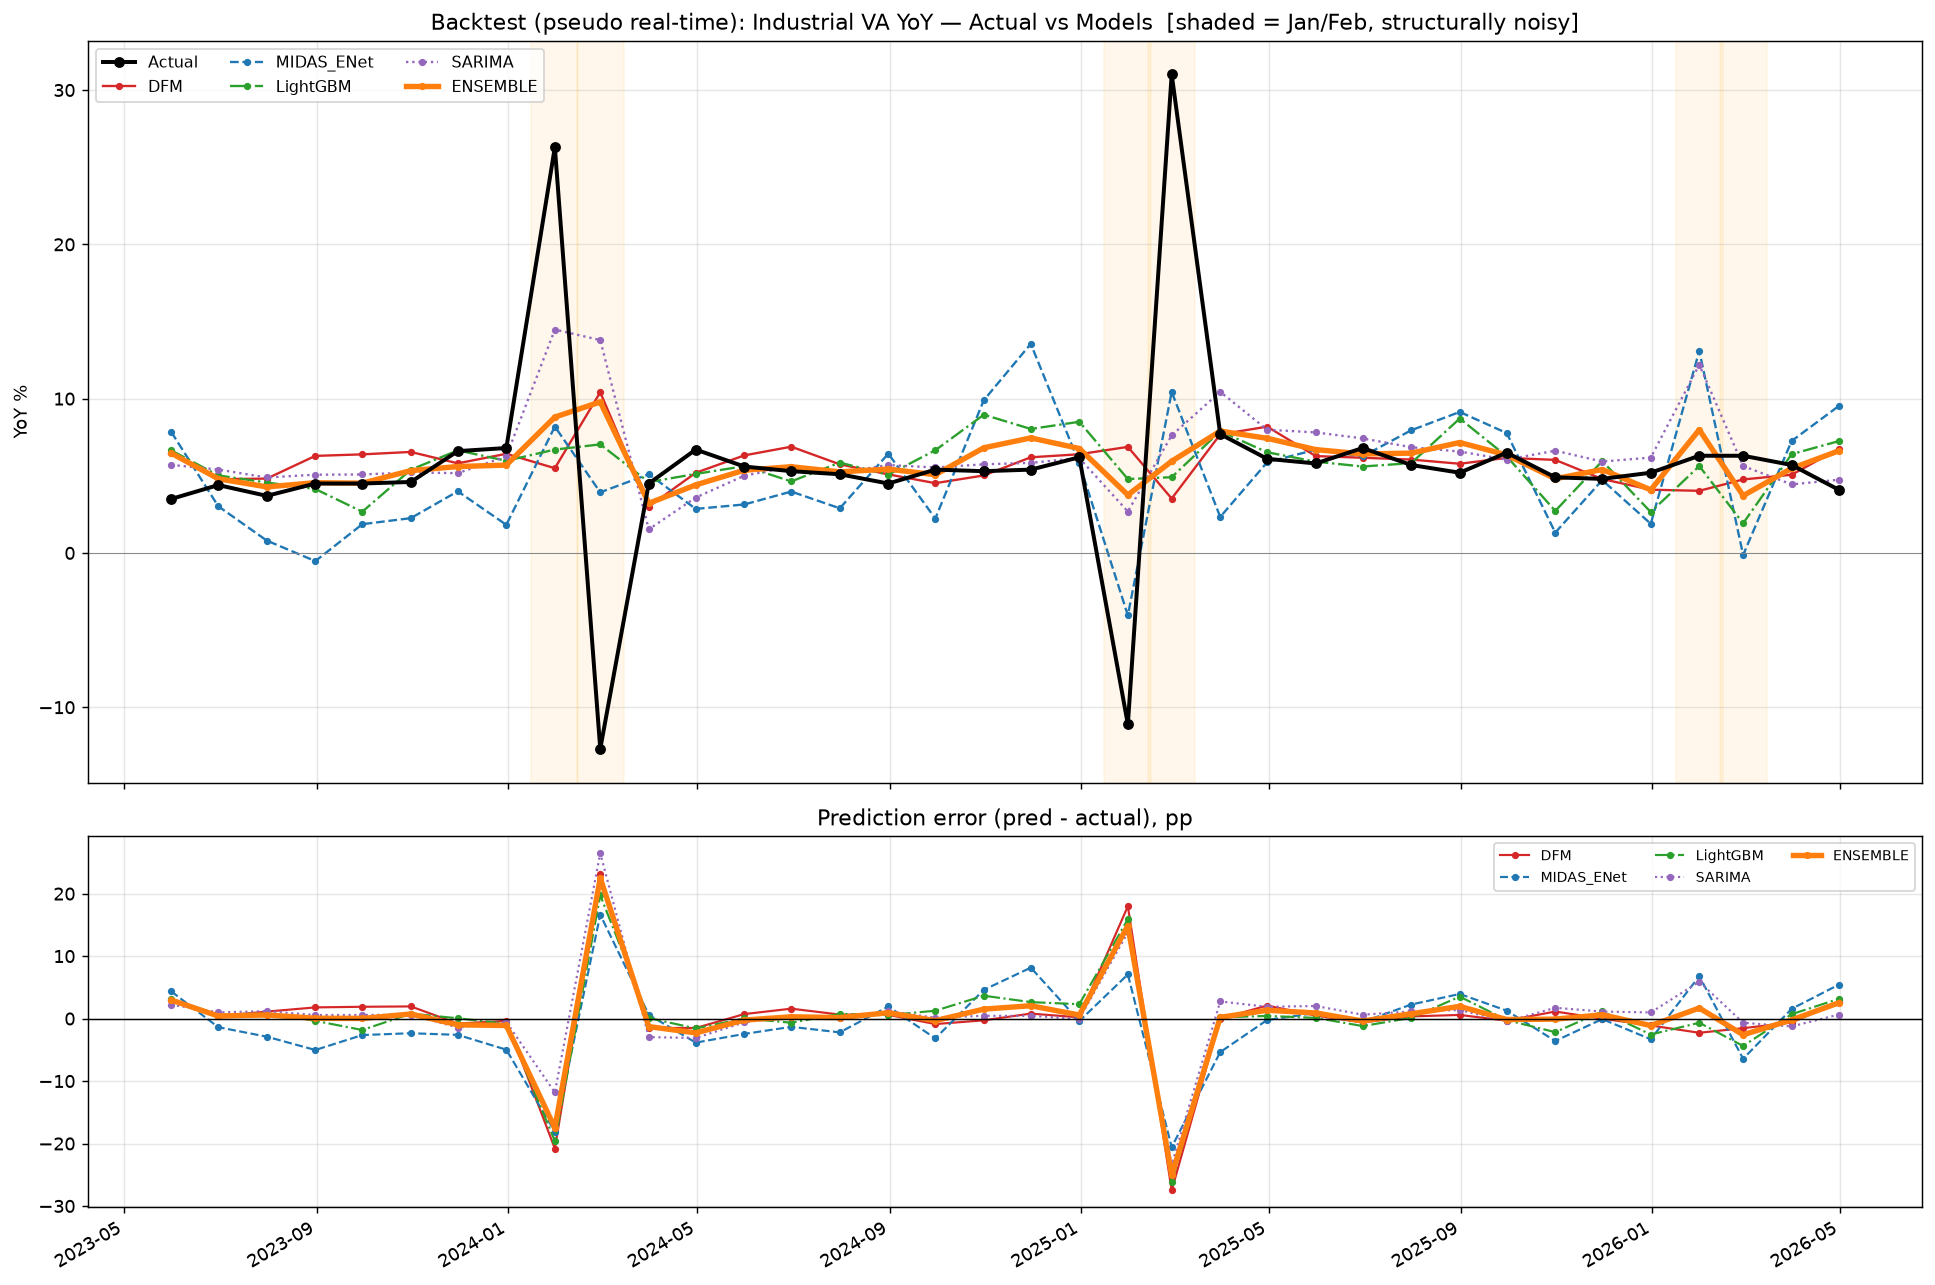
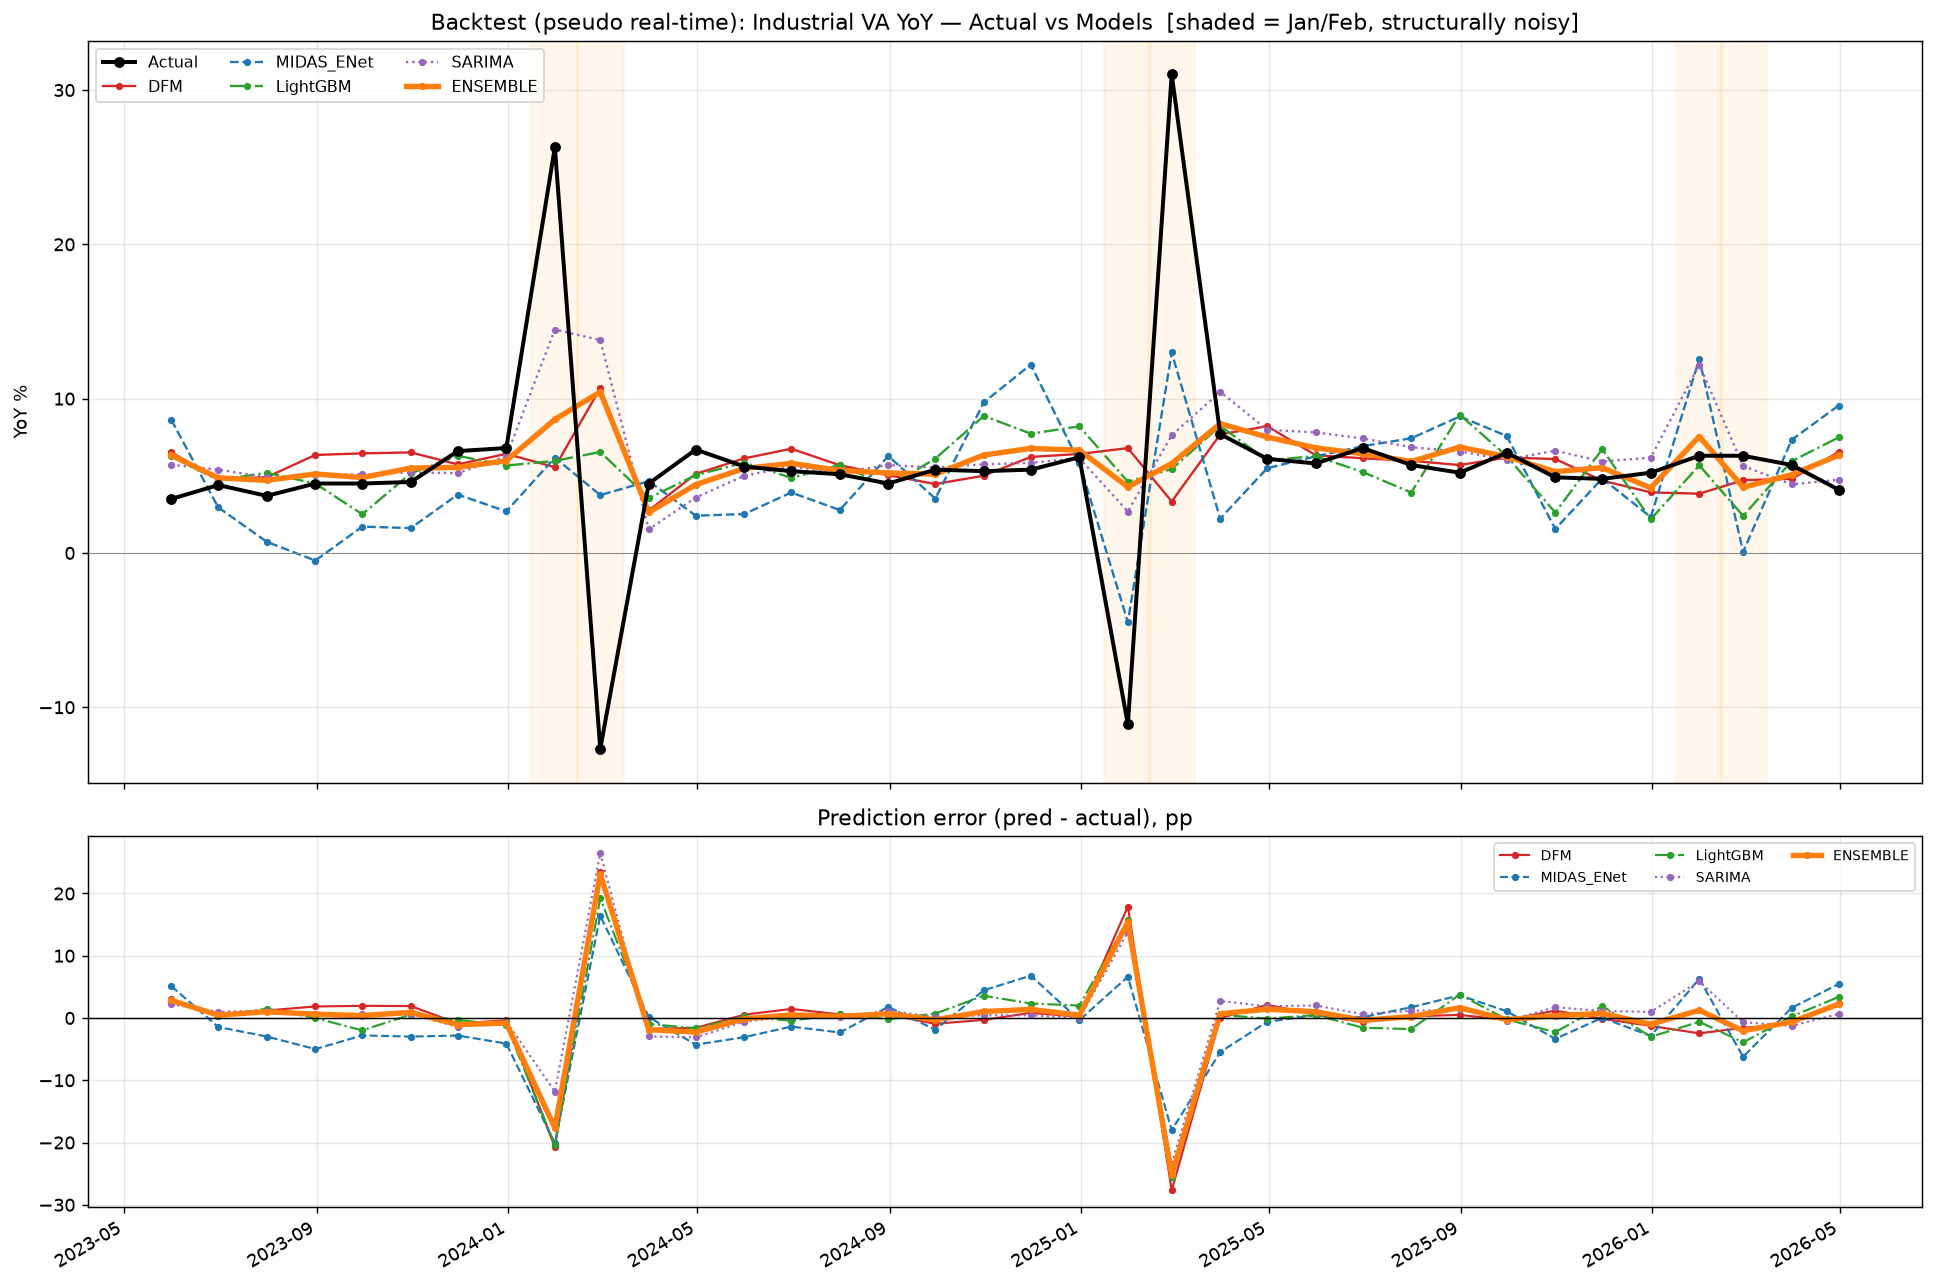
修复高频残月同比口径偏差与组合稳健性
诊断"各模型预测分歧过大(MIDAS=2.50)"根因:非代码bug,而是(1)残月高频同比口径错误:
当月仅部分观测(如旬度钢铁5月仅1个旬数据)却除以去年整月均值,导致同比失真并被
MIDAS放大;(2)逆RMSE加权对不稳定模型压制不足。

修复:
- 高频level2yoy/index2yoy改为"同口径(MTD)同比":每月用其已覆盖的最大日比去年同月
  同一日窗口,完整月等价整月同比,残月对像比较,彻底消除残月口径偏差
- 组合改逆MSE加权(power=2),更狠压制高误差/不稳定模型

效果:MIDAS的5月预测由2.50纠正为7.08(与DFM/LGB一致),各模型收敛到4.45~7.08;
组合剔除1-2月RMSE由1.185降至1.134;最新预测5月点5.76%,80%[4.35,7.17],95%[2.94,8.59]

Claude-Session: https://claude.ai/code/session_01Lyk2ycG3dbMTHNTX5YaMUQ

Changed region(s): [[0.093, 0.2802, 0.9612, 0.4358], [0.062, 0.6848, 0.9612, 0.8405], [0.5891, 0.8405, 0.6202, 0.9027]]

diff --git a/industrial_va_forecast.py b/industrial_va_forecast.py
@@ -120,6 +120,7 @@ class Config:
     midas_topk_features: int = 40    # MIDAS 入模前按|相关|预筛的特征数(降维抗过拟合)
     midas_use_isna_flags: bool = False  # 是否保留缺失指示列(默认关:它们多为噪声)
     ensemble_exclude_janfeb_in_weights: bool = True  # 组合权重按"剔除1-2月"误差计算
+    ensemble_weight_power: float = 2.0  # 权重=1/RMSE^power。2=逆MSE,更狠地压制不稳定模型
     sanity_clip_pp: float = 6.0      # 极端值护栏:最终点预测不超出近12个月实际范围±该值
 
     # ---- 模型 ----
@@ -496,6 +497,38 @@ class FrequencyAligner:
             return grouper.sum()
         raise ValueError(agg)
 
+    def _highfreq_monthly_yoy(self, vis: pd.Series) -> pd.Series:
+        """高频水平量/价格 -> 月度【同口径(MTD)同比】。
+
+        关键修正：每个月的同比都用"该月已覆盖到的最大日(cap) ÷ 去年同月【同样 day<=cap
+        窗口】的均值"。完整月 cap≈月末，等价于整月同比；最新【残月】(如旬度只到5月10日)
+        则与去年同期同一日窗口对像比较，消除"残月均值 ÷ 去年整月均值"的口径偏差与噪声。
+        """
+        s = vis.copy()
+        s.index = pd.DatetimeIndex(s.index)
+        df = pd.DataFrame({"v": s.astype(float).values}, index=s.index)
+        df["month"] = to_month_index(df.index)
+        df["dom"] = df.index.day
+        monthly_mean = df.groupby("month")["v"].mean()
+        monthly_cap = df.groupby("month")["dom"].max()
+        month_set = set(monthly_mean.index)
+        out = {}
+        for m in monthly_mean.index:
+            prior = month_end(pd.Timestamp(m) - pd.DateOffset(years=1))
+            if prior not in month_set:
+                out[m] = np.nan
+                continue
+            cap = monthly_cap[m]
+            pm = df[(df["month"] == prior) & (df["dom"] <= cap)]["v"]
+            base = pm.mean()
+            if len(pm) == 0 or not np.isfinite(base) or abs(base) < 1e-12:
+                out[m] = np.nan
+                continue
+            out[m] = (monthly_mean[m] / base - 1.0) * 100.0
+        ser = pd.Series(out).sort_index()
+        ser = ser.replace([np.inf, -np.inf], np.nan)
+        return ser
+
     def build_monthly_panel(self, as_of: pd.Timestamp) -> pd.DataFrame:
         """构造 as_of 时点的月度面板（列=指标内部名，行=月末），含目标列。"""
         cfg = self.cfg
@@ -508,15 +541,16 @@ class FrequencyAligner:
                 # 月度/目标：直接口径变换
                 ser = self.transformer.transform_monthly(vis, ind.transform)
             else:
-                # 高频：先聚合到月，再按口径做"月度同比/保持比率"
-                monthly = self._aggregate_highfreq_to_month(vis, ind.agg)
-                monthly.index = to_month_index(monthly.index)
-                monthly = monthly[~monthly.index.duplicated(keep="last")].sort_index()
+                # 高频：按口径做"月度同口径(MTD)同比 / 保持比率"
                 if ind.transform in ("level2yoy", "index2yoy"):
-                    full = pd.date_range(monthly.index.min(), monthly.index.max(), freq="ME")
-                    ser = safe_yoy(monthly.reindex(full))
+                    ser = self._highfreq_monthly_yoy(vis)  # 同口径(MTD)同比，消除残月偏差
+                    if ser.notna().any():
+                        full = pd.date_range(ser.index.min(), ser.index.max(), freq="ME")
+                        ser = ser.reindex(full)
                 elif ind.transform == "rate":
-                    ser = monthly
+                    monthly = self._aggregate_highfreq_to_month(vis, ind.agg)
+                    monthly.index = to_month_index(monthly.index)
+                    ser = monthly[~monthly.index.duplicated(keep="last")].sort_index()
                 else:
                     raise ValueError(f"高频指标 {ind.key} 不应是 transform={ind.transform}")
             cols[ind.key] = ser
@@ -1119,7 +1153,9 @@ class Ensemble:
                 rmses[name] = np.sqrt(np.mean((p[m] - y[m]) ** 2))
         if not rmses:
             raise RuntimeError("没有任何模型产生有效回测预测，无法组合。")
-        inv = {k: 1.0 / max(v, 1e-6) for k, v in rmses.items()}
+        # 逆误差幂次加权：power=2 即逆MSE，更强地压制不稳定/高误差模型(如线性MIDAS)
+        inv = {k: 1.0 / max(v, 1e-6) ** cfg.ensemble_weight_power
+               for k, v in rmses.items()}
         ssum = sum(inv.values())
         self.weights = {k: v / ssum for k, v in inv.items()}
         LOG.info("组合权重：%s", {k: round(v, 3) for k, v in self.weights.items()})
